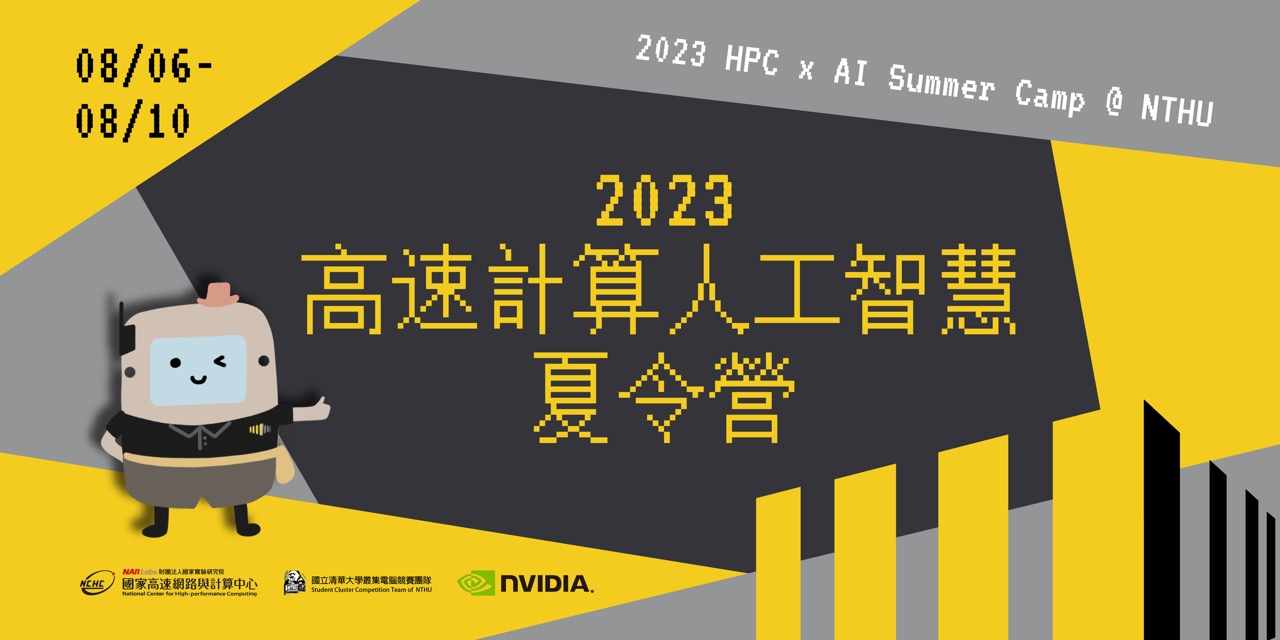
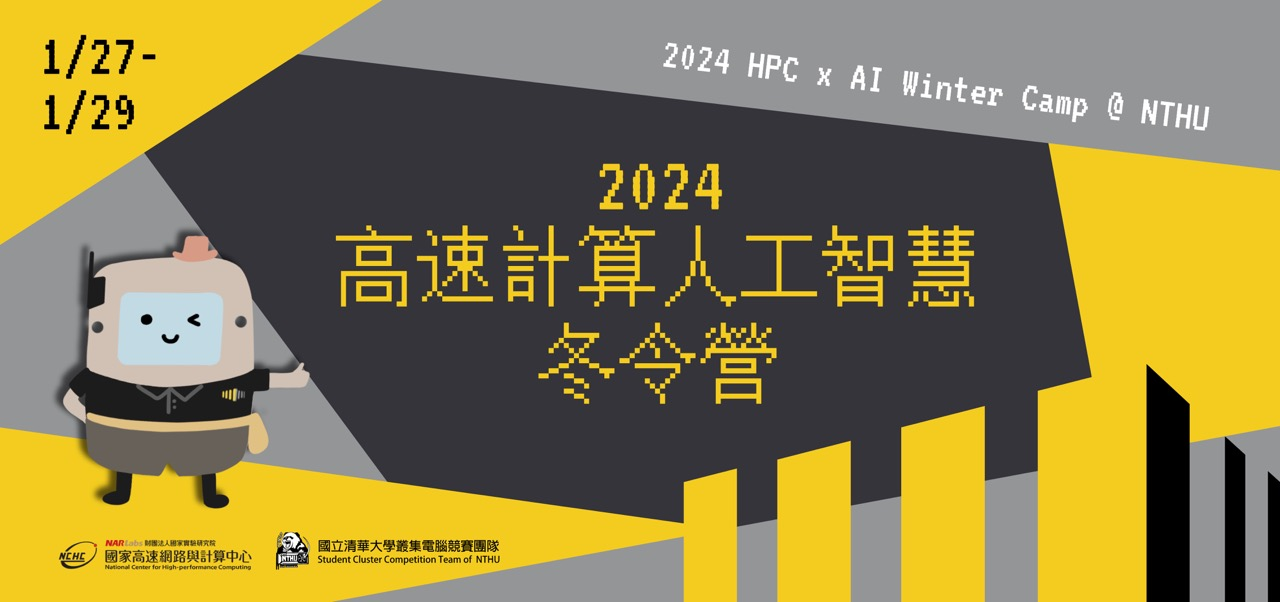
Updated event date

Changed region(s): [[0.0, 0.0, 1.0, 1.0]]

diff --git a/src/components/Pricing.jsx b/src/components/Pricing.jsx
@@ -52,11 +52,13 @@ export const Pricing = () => {
                 報名資訊
               </h2>
               <p className="mb-6 text-customGrayText" style={{ textAlign: "left", paddingLeft: "3vw" ,fontSize: "1.2rem" }}>
-              招生對象：不限，但名額有限，學生身份優先錄取
+              招生對象：不限，但高中身份優先錄取
               <br />
               授課地點：清華大學資電館
               <br />
-              收費用途：用於住宿及飲食
+              授課時間：2024/1/27(六)~2024/1/29(一)
+              <br />
+              收費用途：用於課程、住宿，另可自費 500 協助安排營隊前一天住宿。
               </p>
 
               {/* for swich between monthly and yearly. 

diff --git a/src/components/FeaturesDiagonal.jsx b/src/components/FeaturesDiagonal.jsx
@@ -96,9 +96,9 @@ const MyTable = () => {
       <thead>
         <tr>
           <th> </th>
-          <th>第一天 1/29 (一)</th>
-          <th>第二天 1/30 (二)</th>
-          <th>第三天 1/31 (二)</th>
+          <th>第一天 1/27 (一)</th>
+          <th>第二天 1/28 (二)</th>
+          <th>第三天 1/29 (二)</th>
         </tr>
       </thead>
       <tbody>
